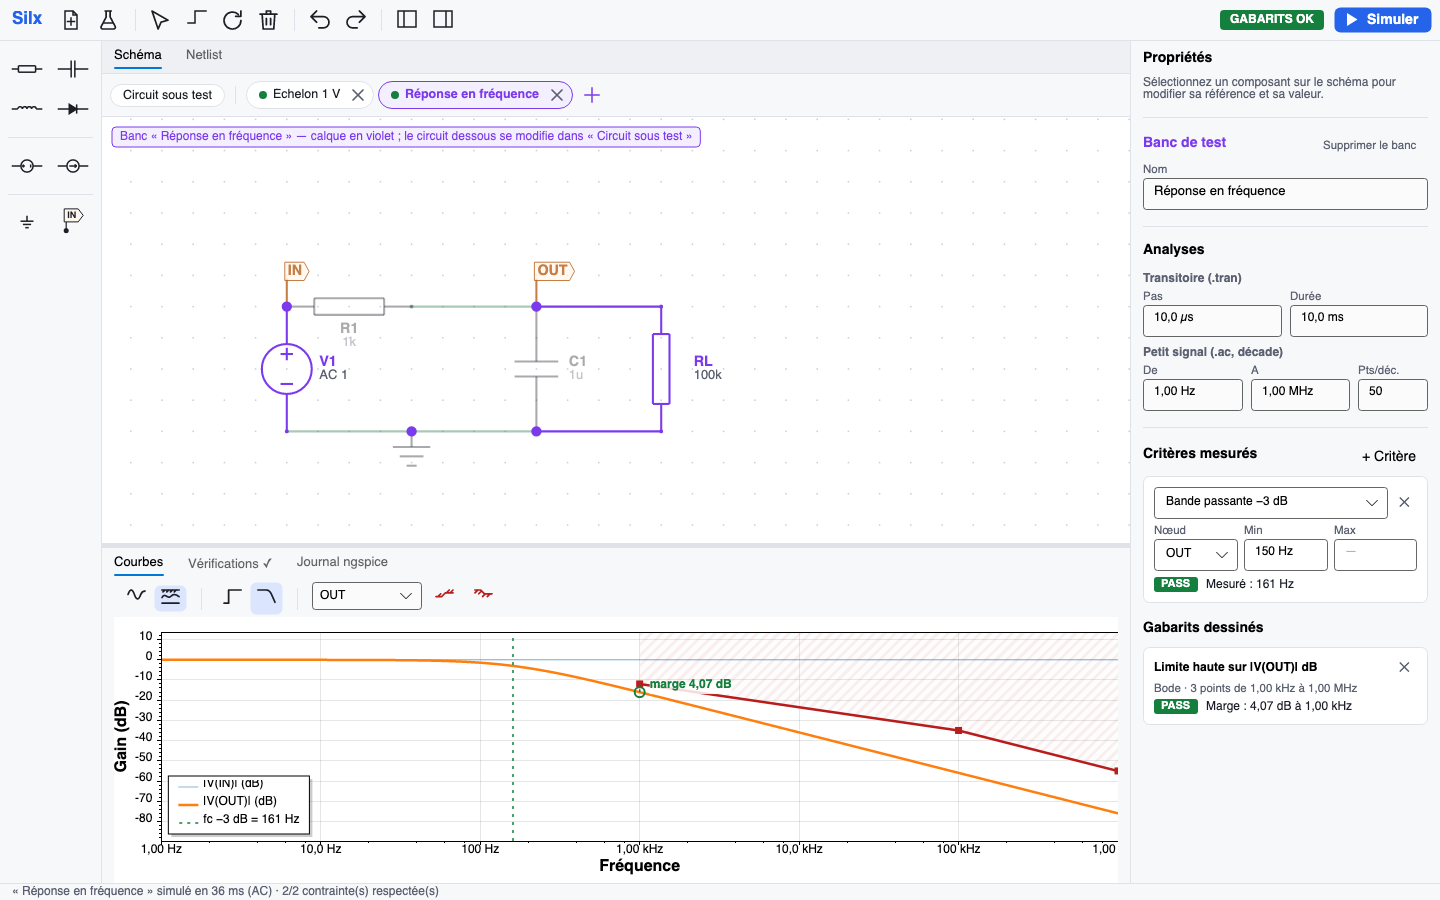
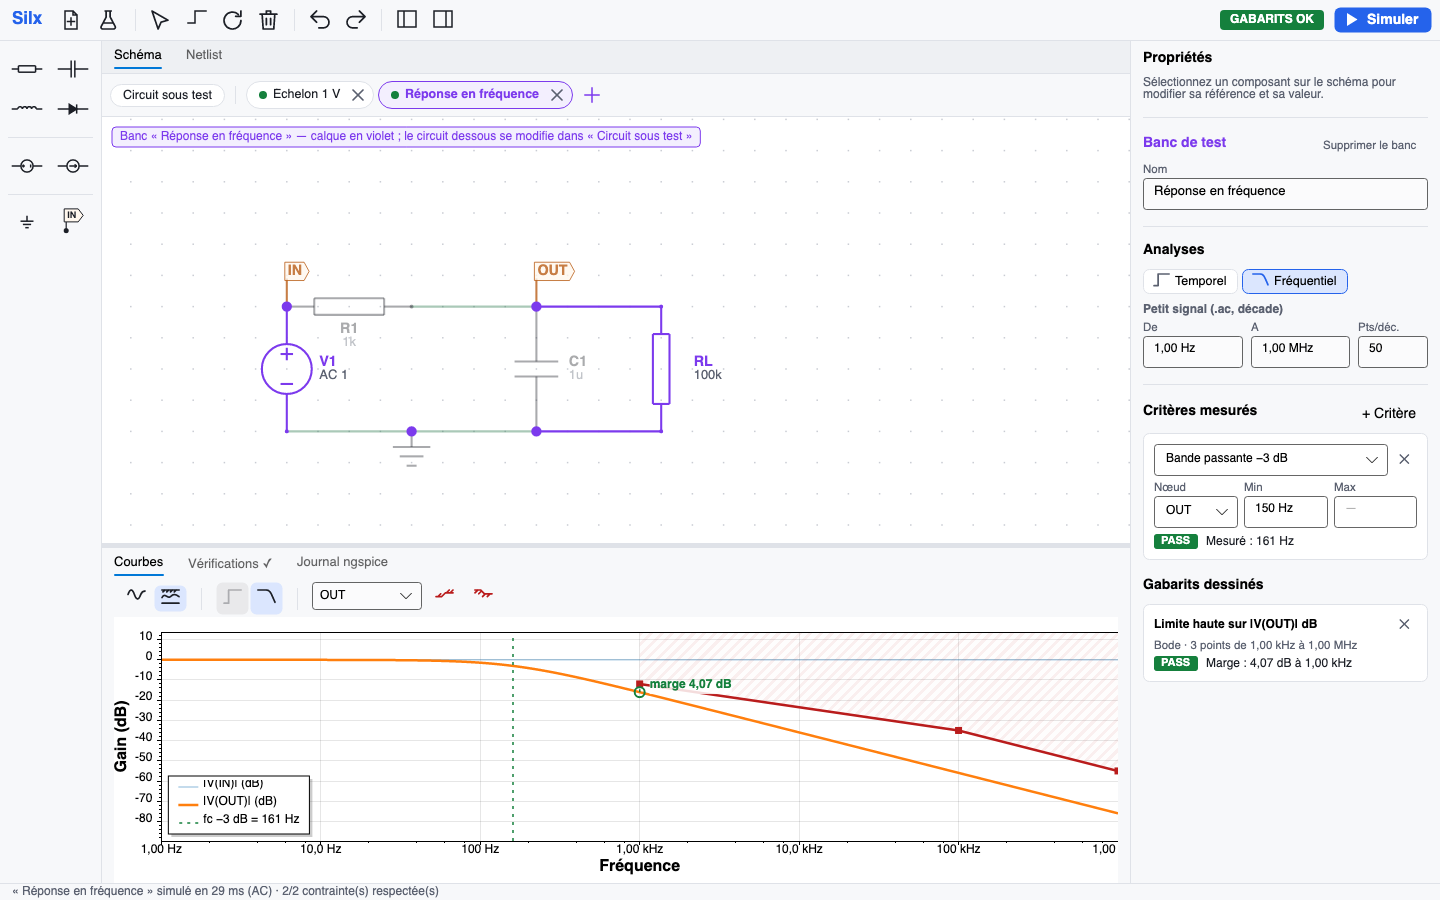
Un banc = un type d'analyse : temporel ou fréquentiel
Le type se choisit dans le panneau du banc ; la vue des courbes le suit et l'autre vue est grisée.
Seules l'analyse et les contraintes de ce type sont lancées et évaluées ; les listes de mesures sont filtrées.

Changed region(s): [[0.7812, 0.28, 1.0, 0.4667], [0.7812, 0.4978, 1.0, 0.6533], [0.7812, 0.6844, 0.9375, 0.8089]]

diff --git a/app/src/Silx.App/MainWindow.cs b/app/src/Silx.App/MainWindow.cs
@@ -31,8 +31,6 @@ public sealed class MainWindow : Window
     readonly TabControl _bottomTabs = new();
     readonly TabItem _ercTab = new();
     readonly Button _simulate;
-    readonly RadioButton _showTran = new() { Content = "Transitoire", GroupName = "aff", IsChecked = true };
-    readonly RadioButton _showAc = new() { Content = "AC (Bode)", GroupName = "aff" };
     readonly Dictionary<ComponentKind, Button> _paletteButtons = new();
     Button _toolSelect = null!, _toolWire = null!;
     // Courbes : mode Simulation (courbes seules) / Test (gabarits visibles et dessinables).
@@ -69,7 +67,8 @@ public sealed class MainWindow : Window
         set { if (_banc == null) return; if (value == null) _results.Remove(_banc); else _results[_banc] = value; }
     }
 
-    AnalyseKind Shown => _showAc.IsChecked == true ? AnalyseKind.Ac : AnalyseKind.Transitoire;
+    /// <summary>Vue des courbes : imposée par le type du banc actif.</summary>
+    AnalyseKind Shown => _banc?.Type ?? AnalyseKind.Transitoire;
 
     public MainWindow()
     {
@@ -108,8 +107,6 @@ public sealed class MainWindow : Window
             if (_drawing != null && e.Key is Key.Enter or Key.Escape) { e.Handled = true; EndDrawing(e.Key == Key.Enter); return; }
             if (e.Key == Key.F5 || (e.Key == Key.Enter && e.KeyModifiers.HasFlag(KeyModifiers.Meta))) { e.Handled = true; await SimulateAsync(); }
         };
-        _showTran.IsCheckedChanged += (_, _) => { if (_showTran.IsChecked == true) RefreshPlot(); };
-        _showAc.IsCheckedChanged += (_, _) => { if (_showAc.IsChecked == true) RefreshPlot(); };
 
         LoadEtude(EtudeModel.Demo());
         _status.Text = "Clic : placer / sélectionner · glisser : déplacer · clic droit ou molette : vue · ⌘R : pivoter · W : fil · Suppr · ⌘Z / ⇧⌘Z";
@@ -126,7 +123,13 @@ public sealed class MainWindow : Window
     public EtudeModel EtudeCourante => _etude;
     public AvaPlot PlotControl => _plot;
     public void SetModeTest(bool test) { _modeTest = test; RefreshPlotToolbar(); RefreshPlot(); }
-    public void ShowAnalysis(AnalyseKind k) { (k == AnalyseKind.Ac ? _showAc : _showTran).IsChecked = true; RefreshPlotToolbar(); RefreshPlot(); }
+    /// <summary>Change le type du banc actif (temporel / fréquentiel).</summary>
+    public void ShowAnalysis(AnalyseKind k)
+    {
+        if (_banc == null || _banc.Type == k) return;
+        EndDrawing(false); _banc.Type = k; _last = null; SetVerdict(null);
+        RefreshSide(); RefreshBenchBar(); RefreshPlotToolbar(); RefreshPlot(); OnSchemaChanged();
+    }
 
     void LoadEtude(EtudeModel e)
     {
@@ -308,8 +311,8 @@ public sealed class MainWindow : Window
         var seg = new StackPanel { Orientation = Orientation.Horizontal, Spacing = 1 };
         seg.Children.Add(_modeSim); seg.Children.Add(_modeTestBtn);
 
-        _viewTran = Icones.Button(Icones.Temporel, "Vue temporelle (.tran)", () => ShowAnalysis(AnalyseKind.Transitoire), 17);
-        _viewAc = Icones.Button(Icones.Bode, "Vue fréquentielle : Bode (.ac)", () => ShowAnalysis(AnalyseKind.Ac), 17);
+        _viewTran = Icones.Button(Icones.Temporel, "Vue temporelle : suit le type du banc (réglable dans le panneau du banc)", () => { }, 17);
+        _viewAc = Icones.Button(Icones.Bode, "Vue Bode : suit le type du banc (réglable dans le panneau du banc)", () => { }, 17);
         var view = new StackPanel { Orientation = Orientation.Horizontal, Spacing = 1 };
         view.Children.Add(_viewTran); view.Children.Add(_viewAc);
 
@@ -340,7 +343,13 @@ public sealed class MainWindow : Window
     void RefreshPlotToolbar()
     {
         Ui.SetActive(_modeSim, !_modeTest); Ui.SetActive(_modeTestBtn, _modeTest);
-        if (_viewTran != null) { Ui.SetActive(_viewTran, Shown == AnalyseKind.Transitoire); Ui.SetActive(_viewAc, Shown == AnalyseKind.Ac); }
+        if (_viewTran != null)
+        {
+            // La vue suit le type du banc : l'autre est grisée.
+            Ui.SetActive(_viewTran, _banc != null && Shown == AnalyseKind.Transitoire); Ui.SetActive(_viewAc, _banc != null && Shown == AnalyseKind.Ac);
+            _viewTran.IsEnabled = _banc?.Type == AnalyseKind.Transitoire; _viewAc.IsEnabled = _banc?.Type == AnalyseKind.Ac;
+            _viewTran.Opacity = _viewTran.IsEnabled ? 1 : 0.3; _viewAc.Opacity = _viewAc.IsEnabled ? 1 : 0.3;
+        }
         _testTools.IsVisible = _modeTest && _banc != null;
         Ui.SetActive(_drawHigh, _drawing?.Limite == Limite.Haute); Ui.SetActive(_drawLow, _drawing?.Limite == Limite.Basse);
         _drawHint.Text = _drawing == null ? "" : _drawing.Points.Count == 0
@@ -384,11 +393,11 @@ public sealed class MainWindow : Window
     void ReevaluateTraces()
     {
         if (_banc == null || _last == null || _last.Erreur != null) return;
-        var traces = Banc.GabaritsTraces.Where(g => _last.Resultats.ContainsKey(g.Analyse))
+        var traces = Banc.TracesActives.Where(g => _last.Resultats.ContainsKey(g.Analyse))
             .Select(g => new ResultatTrace(g, Verification.EvaluerTrace(g, _last.Resultats[g.Analyse]))).ToList();
         _last = _last with { Traces = traces };
         _status.Text = $"« {Banc.Nom} » : gabarit modifié · {_last.Respectes}/{_last.Nombre} contrainte(s) respectée(s)";
-        if (Banc.GabaritsTraces.Any(g => !_last.Resultats.ContainsKey(g.Analyse))) SetVerdict(null); else SetVerdict(_last.Nombre == 0 ? null : _last.Global);
+        if (Banc.TracesActives.Any(g => !_last.Resultats.ContainsKey(g.Analyse))) SetVerdict(null); else SetVerdict(_last.Nombre == 0 ? null : _last.Global);
     }
 
     (double X, double Y) ToData(PointerEventArgs e)
@@ -502,7 +511,7 @@ public sealed class MainWindow : Window
                 var detail = new TextBlock
                 {
                     FontSize = 11.5, Foreground = Ui.Muted, VerticalAlignment = VerticalAlignment.Center,
-                    Text = r == null ? $"{b.Gabarits.Count + b.GabaritsTraces.Count} contrainte(s)" : r.Erreur != null ? "erreur" : $"{r.Respectes}/{r.Nombre} respectée(s)"
+                    Text = r == null ? $"{b.CriteresActifs.Count() + b.TracesActives.Count()} contrainte(s) · {(b.Type == AnalyseKind.Ac ? "fréquentiel" : "temporel")}" : r.Erreur != null ? "erreur" : $"{r.Respectes}/{r.Nombre} respectée(s)"
                 };
                 Grid.SetColumn(detail, 2); row.Children.Add(detail);
                 var bb = b;
@@ -534,7 +543,7 @@ public sealed class MainWindow : Window
         var add = Ui.ToolButton("+ Critère", "Ajouter un critère pass/fail", () =>
         {
             var n = Connectivity.Build(SchemaCourant).NamedNodes.FirstOrDefault() ?? "OUT";
-            Banc.Gabarits.Add(new CritereGabarit { Mesure = TypeMesure.BandePassante3dB, Noeud = n }); RefreshGabarits();
+            Banc.Gabarits.Add(new CritereGabarit { Mesure = Banc.Type == AnalyseKind.Ac ? TypeMesure.BandePassante3dB : TypeMesure.TempsDeMontee, Noeud = n }); RefreshGabarits();
         });
         Grid.SetColumn(add, 1); gh.Children.Add(add);
         _benchPanel.Children.Add(gh); _benchPanel.Children.Add(_gabarits);
@@ -557,8 +566,19 @@ public sealed class MainWindow : Window
         var pts = Ui.Field("Pts/déc.", Banc.Ac.PointsParDecade.ToString(), v => { if (int.TryParse(v, out var x) && x > 0) Banc.Ac.PointsParDecade = x; });
         Grid.SetColumn(pts, 4); ac.Children.Add(pts);
 
-        s.Children.Add(Ui.SubTitle("Transitoire (.tran)")); s.Children.Add(tran);
-        s.Children.Add(Ui.SubTitle("Petit signal (.ac, décade)")); s.Children.Add(ac);
+        var type = new StackPanel { Orientation = Orientation.Horizontal, Spacing = 4 };
+        foreach (var (k, icon, label) in new[] { (AnalyseKind.Transitoire, Icones.Temporel, "Temporel"), (AnalyseKind.Ac, Icones.Bode, "Fréquentiel") })
+        {
+            var row = new StackPanel { Orientation = Orientation.Horizontal, Spacing = 6 };
+            row.Children.Add(Icones.Make(icon, 15, Banc.Type == k ? Ui.AccentBrush : Ui.Muted)); row.Children.Add(new TextBlock { Text = label, FontSize = 12.5, VerticalAlignment = VerticalAlignment.Center });
+            var b = new Button { Content = row, Padding = new Thickness(10, 4), CornerRadius = new CornerRadius(6), BorderThickness = new Thickness(1), BorderBrush = Banc.Type == k ? Ui.AccentBrush : Ui.Line, Background = Banc.Type == k ? Ui.ActiveBg : Brushes.White };
+            ToolTip.SetTip(b, k == AnalyseKind.Ac ? "Banc fréquentiel : analyse .ac, courbes en Bode" : "Banc temporel : analyse .tran, courbes en fonction du temps");
+            var kk = k; b.Click += (_, _) => ShowAnalysis(kk);
+            type.Children.Add(b);
+        }
+        s.Children.Add(type);
+        if (Banc.Type == AnalyseKind.Transitoire) { s.Children.Add(Ui.SubTitle("Transitoire (.tran)")); s.Children.Add(tran); }
+        else { s.Children.Add(Ui.SubTitle("Petit signal (.ac, décade)")); s.Children.Add(ac); }
         return s;
     }
 
@@ -620,16 +640,17 @@ public sealed class MainWindow : Window
         _gabarits.Children.Clear(); _traces.Children.Clear();
         if (_banc == null) return;
         RefreshTraces();
-        if (Banc.Gabarits.Count == 0)
+        if (!Banc.CriteresActifs.Any())
             _gabarits.Children.Add(Ui.Hint("Aucun critère. Ajoutez par exemple « Bande passante −3 dB ≥ 1 kHz sur OUT »."));
         var nodes = Connectivity.Build(SchemaCourant).AllNodes.ToList();
-        foreach (var g in Banc.Gabarits.ToList())
+        foreach (var g in Banc.CriteresActifs.ToList())
         {
             var res = _last?.Criteres.FirstOrDefault(r => r.Critere == g)?.Resultat;
             var card = new StackPanel { Spacing = 6 };
             var head = new Grid { ColumnDefinitions = new("*,Auto") };
-            var mesure = new ComboBox { ItemsSource = TypesMesure.Tous.Select(i => i.Nom).ToList(), SelectedIndex = TypesMesure.Tous.ToList().FindIndex(i => i.Type == g.Mesure), HorizontalAlignment = HorizontalAlignment.Stretch, FontSize = 12 };
-            mesure.SelectionChanged += (_, _) => { if (mesure.SelectedIndex >= 0 && TypesMesure.Tous[mesure.SelectedIndex].Type != g.Mesure) { g.Mesure = TypesMesure.Tous[mesure.SelectedIndex].Type; Invalidate(); } };
+            var choix = TypesMesure.Tous.Where(i => i.Analyse == Banc.Type).ToList();
+            var mesure = new ComboBox { ItemsSource = choix.Select(i => i.Nom).ToList(), SelectedIndex = choix.FindIndex(i => i.Type == g.Mesure), HorizontalAlignment = HorizontalAlignment.Stretch, FontSize = 12 };
+            mesure.SelectionChanged += (_, _) => { if (mesure.SelectedIndex >= 0 && choix[mesure.SelectedIndex].Type != g.Mesure) { g.Mesure = choix[mesure.SelectedIndex].Type; Invalidate(); } };
             var del = new Button { Content = "✕", Background = Brushes.Transparent, Foreground = Ui.Muted, Padding = new Thickness(6, 2), Margin = new Thickness(4, 0, 0, 0) };
             ToolTip.SetTip(del, "Retirer ce critère");
             del.Click += (_, _) => { Banc.Gabarits.Remove(g); Invalidate(); };
@@ -666,9 +687,9 @@ public sealed class MainWindow : Window
     void RefreshTraces()
     {
         _traces.Children.Clear();
-        if (Banc.GabaritsTraces.Count == 0)
+        if (!Banc.TracesActives.Any())
             _traces.Children.Add(Ui.Hint("Aucun. En mode Test, sous les courbes : choisissez un signal puis « Limite haute » ou « Limite basse » et cliquez sur le graphique."));
-        foreach (var g in Banc.GabaritsTraces.ToList())
+        foreach (var g in Banc.TracesActives.ToList())
         {
             var res = _last?.Traces.FirstOrDefault(t => t.Gabarit == g)?.Resultat;
             var card = new StackPanel { Spacing = 4 };
@@ -744,7 +765,7 @@ public sealed class MainWindow : Window
                 return;
             }
             _status.Text = "Simulation ngspice en cours…";
-            var res = await Verification.RunAsync(_etude, Banc, [Shown], _cts.Token);
+            var res = await Verification.RunAsync(_etude, Banc, [], _cts.Token);
             _last = res;
             _journal.Text = res.Journal;
             if (res.Erreur != null)

diff --git a/app/src/Silx.Etude/Verification.cs b/app/src/Silx.Etude/Verification.cs
@@ -53,8 +53,8 @@ public static class Verification
         if (erc.Any(i => i.Severity == Severity.Error))
             return new(new Dictionary<AnalyseKind, RawFile>(), [], [], erc, "", "Simulation bloquée : corriger les erreurs de vérification du schéma.");
 
-        var kinds = toujours.Concat(etude.Gabarits.Select(g => g.Info.Analyse)).Concat(etude.GabaritsTraces.Select(g => g.Analyse)).Distinct().ToList();
-        if (kinds.Count == 0) kinds.Add(AnalyseKind.Transitoire);
+        // Un banc = un type d'analyse (temporel ou fréquentiel).
+        var kinds = new List<AnalyseKind> { etude.Type };
         var runner = new NgspiceRunner { Executable = NgspiceExecutable() };
         var raws = new Dictionary<AnalyseKind, RawFile>();
         var journal = new System.Text.StringBuilder();
@@ -75,8 +75,8 @@ public static class Verification
         catch (NgspiceException ex) { return new(raws, [], [], erc, ex.Log, ex.Message); }
         catch (Exception ex) { return new(raws, [], [], erc, journal.ToString(), ex.Message); }
 
-        var criteres = etude.Gabarits.Select(g => new ResultatCritere(g, Evaluer(g, raws[g.Info.Analyse]))).ToList();
-        var traces = etude.GabaritsTraces.Select(g => new ResultatTrace(g, EvaluerTrace(g, raws[g.Analyse]))).ToList();
+        var criteres = etude.CriteresActifs.Select(g => new ResultatCritere(g, Evaluer(g, raws[g.Info.Analyse]))).ToList();
+        var traces = etude.TracesActives.Select(g => new ResultatTrace(g, EvaluerTrace(g, raws[g.Analyse]))).ToList();
         return new(raws, criteres, traces, erc, journal.ToString(), null);
     }
 

diff --git a/app/src/Silx.Etude/Etude.cs b/app/src/Silx.Etude/Etude.cs
@@ -55,6 +55,10 @@ public sealed class GabaritTrace
 public sealed class Banc
 {
     public string Nom { get; set; } = "Banc";
+    /// <summary>Nature du banc : temporel (.tran) ou fréquentiel (.ac). Seules les contraintes de ce type sont évaluées.</summary>
+    public AnalyseKind Type { get; set; } = AnalyseKind.Transitoire;
+    public IEnumerable<CritereGabarit> CriteresActifs => Gabarits.Where(g => g.Info.Analyse == Type);
+    public IEnumerable<GabaritTrace> TracesActives => GabaritsTraces.Where(g => g.Analyse == Type);
     public Schematic Calque { get; set; } = new();
     public ReglagesTransitoire Transitoire { get; } = new();
     public ReglagesAc Ac { get; } = new();
@@ -96,7 +100,7 @@ public sealed class Etude
         echelon.GabaritsTraces.Add(new() { Analyse = AnalyseKind.Transitoire, Noeud = "OUT", Limite = Silx.Mesures.Gabarits.Limite.Basse, Points = [(2e-3, 0), (3e-3, 0.8), (6e-3, 0.95), (10e-3, 0.95)] });
         e.Bancs.Add(echelon);
 
-        var bode = new Banc { Nom = "Réponse en fréquence" };
+        var bode = new Banc { Nom = "Réponse en fréquence", Type = AnalyseKind.Ac };
         bode.Calque.Components.Add(new() { Ref = "V1", Kind = ComponentKind.VoltageSource, Position = new(4, 8), Rotation = 1, Value = "AC 1" });
         bode.Calque.Components.Add(new() { Ref = "RL", Kind = ComponentKind.Resistor, Position = new(16, 8), Rotation = 1, Value = "100k" });
         bode.Calque.Wires.Add(new(new(12, 8), new(16, 8)));

diff --git a/app/tests/Silx.App.Tests/CoreTests.cs b/app/tests/Silx.App.Tests/CoreTests.cs
@@ -126,6 +126,17 @@ public class CoreTests
     }
 
     [Fact]
+    public async Task Un_banc_frequentiel_ne_lance_que_l_analyse_ac()
+    {
+        var e = Silx.Etude.Etude.Demo(); var b = Banc(e, "Réponse");
+        b.Gabarits.Add(new() { Mesure = TypeMesure.TempsDeMontee, Noeud = "OUT", Max = 1e-9 });   // critère temporel : ignoré
+        var r = await Verification.RunAsync(e, b, []);
+        Assert.Equal([AnalyseKind.Ac], r.Resultats.Keys);
+        Assert.DoesNotContain(r.Criteres, c => c.Critere.Mesure == TypeMesure.TempsDeMontee);
+        Assert.Equal(Verdict.Pass, r.Global);
+    }
+
+    [Fact]
     public async Task Gabarit_dessine_franchi_echoue()
     {
         var e = Silx.Etude.Etude.Demo(); var b = Banc(e, "Échelon");

diff --git a/app/README.md b/app/README.md
@@ -8,7 +8,7 @@
 ```bash
 brew install ngspice                      # moteur de simulation
 dotnet run --project src/Silx.App         # .NET 10 requis
-dotnet test                               # 20 tests, dont simulations ngspice réelles
+dotnet test                               # 22 tests, dont simulations ngspice réelles
 ```
 
 ngspice est cherché dans `SILX_NGSPICE`, puis `/opt/homebrew/bin`, `/usr/local/bin`, puis le PATH.
